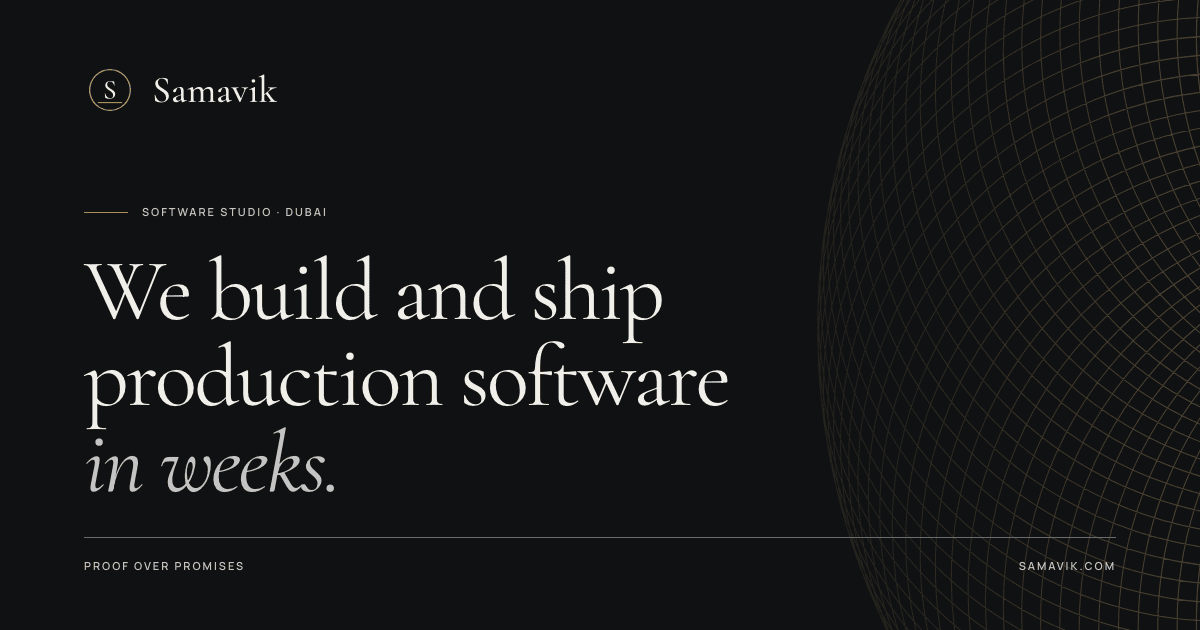
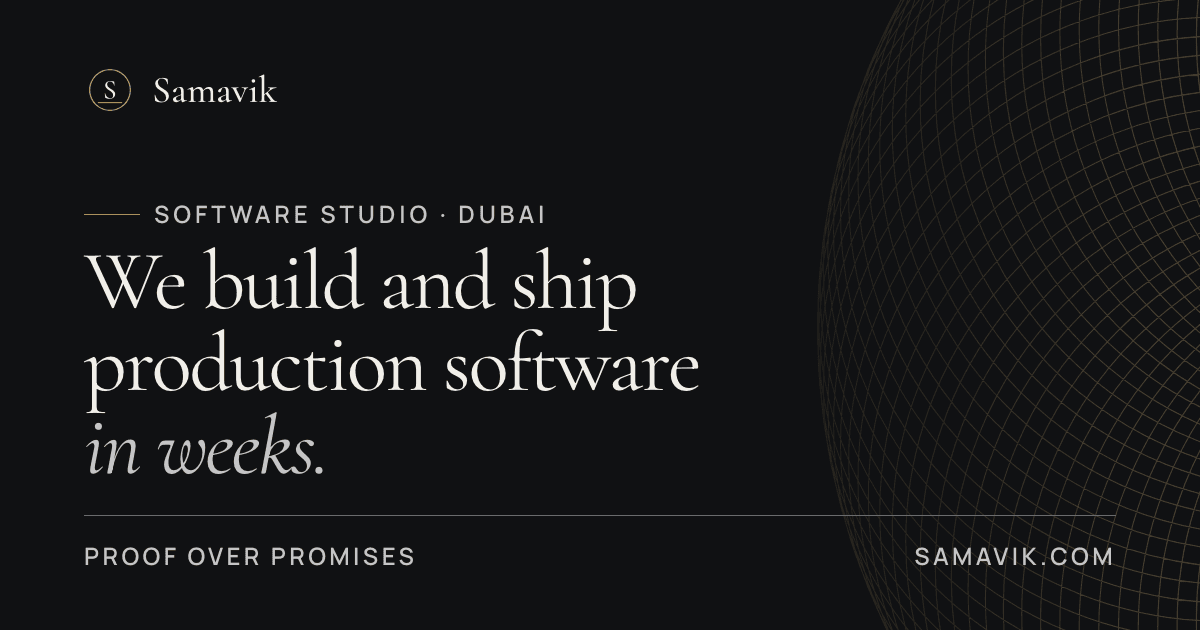
fix(review): rendered-pixel contrast tooling, widows, targets, share image, no-JS form line, COPY_CHANGES complete, console check in three engines, copy-diff, tools README

diff --git a/wordpress-migration.html b/wordpress-migration.html
@@ -94,12 +94,12 @@
           <p class="lede sub">It's not just hosting. It's the plugins, the security patches, the updates that break things, and the developer time to keep it all running.</p>
         </div>
         <ul class="ruled cols-3">
-          <li><p class="num">01</p><h3>Security vulnerability</h3><p>WordPress is the #1 target for hackers. Every plugin is an attack vector. One outdated plugin can compromise your entire site.</p></li>
-          <li><p class="num">02</p><h3>Slow page loads</h3><p>Every request hits a PHP server and MySQL database. Add a page builder and plugins and you're looking at 3&ndash;5 second load times. Google notices.</p></li>
-          <li><p class="num">03</p><h3>Endless maintenance</h3><p>WordPress core updates. Plugin updates. Theme updates. PHP upgrades. Database optimisation. SSL renewals. Backup management. It never stops.</p></li>
-          <li><p class="num">04</p><h3>Compounding costs</h3><p>Hosting &pound;11&ndash;44/mo. Plugin licences &pound;15&ndash;50/mo. Theme &pound;5&ndash;15/mo. Developer maintenance &pound;50&ndash;200/mo. That's &pound;1,000&ndash;3,700+ per year.</p></li>
-          <li><p class="num">05</p><h3>Plugin conflicts</h3><p>Update one plugin, break another. The #1 cause of WordPress downtime isn't hacking &mdash; it's a routine update gone wrong.</p></li>
-          <li><p class="num">06</p><h3>SEO penalty</h3><p>Google's Core Web Vitals directly affect rankings. Slow TTFB, poor LCP, layout shifts &mdash; WordPress sites increasingly fail these metrics.</p></li>
+          <li><p class="num">01</p><h3>Security&nbsp;vulnerability</h3><p>WordPress is the #1 target for hackers. Every plugin is an attack vector. One outdated plugin can compromise your entire site.</p></li>
+          <li><p class="num">02</p><h3>Slow page&nbsp;loads</h3><p>Every request hits a PHP server and MySQL database. Add a page builder and plugins and you're looking at 3&ndash;5 second load times. Google notices.</p></li>
+          <li><p class="num">03</p><h3>Endless&nbsp;maintenance</h3><p>WordPress core updates. Plugin updates. Theme updates. PHP upgrades. Database optimisation. SSL renewals. Backup management. It never stops.</p></li>
+          <li><p class="num">04</p><h3>Compounding&nbsp;costs</h3><p>Hosting &pound;11&ndash;44/mo. Plugin licences &pound;15&ndash;50/mo. Theme &pound;5&ndash;15/mo. Developer maintenance &pound;50&ndash;200/mo. That's &pound;1,000&ndash;3,700+ per year.</p></li>
+          <li><p class="num">05</p><h3>Plugin&nbsp;conflicts</h3><p>Update one plugin, break another. The #1 cause of WordPress downtime isn't hacking &mdash; it's a routine update gone wrong.</p></li>
+          <li><p class="num">06</p><h3>SEO&nbsp;penalty</h3><p>Google's Core Web Vitals directly affect rankings. Slow TTFB, poor LCP, layout shifts &mdash; WordPress sites increasingly fail these metrics.</p></li>
         </ul>
       </div>
     </section>
@@ -139,11 +139,11 @@
           <p class="lede sub">Your WordPress site stays live throughout. Nothing changes until you've approved the new site.</p>
         </div>
         <ol class="steps">
-          <li><span class="n" aria-hidden="true">01</span><div><h3>Free Audit</h3><p class="label dur">1&ndash;2 days</p></div><p>We review your current WordPress site &mdash; costs, performance, content, DNS, email. You get a specific report with numbers.</p></li>
-          <li><span class="n" aria-hidden="true">02</span><div><h3>Build &amp; Preview</h3><p class="label dur">1&ndash;2 weeks</p></div><p>The new site is built and deployed to a private preview URL. You see exactly what you're getting before committing.</p></li>
-          <li><span class="n" aria-hidden="true">03</span><div><h3>Review &amp; Approve</h3><p class="label dur">3&ndash;5 days</p></div><p>You and your team test the preview. Feedback, revisions, content checks. Nothing goes live until you say so.</p></li>
-          <li><span class="n" aria-hidden="true">04</span><div><h3>Switch &amp; Redirect</h3><p class="label dur">1 day</p></div><p>DNS pointed to the new site. 301 redirects preserve SEO. Sitemap submitted. WordPress kept as backup.</p></li>
-          <li><span class="n" aria-hidden="true">05</span><div><h3>Monitor &amp; Train</h3><p class="label dur">2&ndash;4 weeks</p></div><p>2&ndash;4 weeks monitoring. Training for your content editor. Cancel WordPress when you're confident.</p></li>
+          <li><span class="n" aria-hidden="true">01</span><div><h3>Free&nbsp;Audit</h3><p class="label dur">1&ndash;2 days</p></div><p>We review your current WordPress site &mdash; costs, performance, content, DNS, email. You get a specific report with numbers.</p></li>
+          <li><span class="n" aria-hidden="true">02</span><div><h3>Build &amp;&nbsp;Preview</h3><p class="label dur">1&ndash;2 weeks</p></div><p>The new site is built and deployed to a private preview URL. You see exactly what you're getting before committing.</p></li>
+          <li><span class="n" aria-hidden="true">03</span><div><h3>Review &amp;&nbsp;Approve</h3><p class="label dur">3&ndash;5 days</p></div><p>You and your team test the preview. Feedback, revisions, content checks. Nothing goes live until you say so.</p></li>
+          <li><span class="n" aria-hidden="true">04</span><div><h3>Switch &amp;&nbsp;Redirect</h3><p class="label dur">1 day</p></div><p>DNS pointed to the new site. 301 redirects preserve SEO. Sitemap submitted. WordPress kept as backup.</p></li>
+          <li><span class="n" aria-hidden="true">05</span><div><h3>Monitor &amp;&nbsp;Train</h3><p class="label dur">2&ndash;4 weeks</p></div><p>2&ndash;4 weeks monitoring. Training for your content editor. Cancel WordPress when you're confident.</p></li>
         </ol>
       </div>
     </section>
@@ -158,7 +158,7 @@
         <article class="plate" aria-labelledby="cs-t">
           <div class="in">
             <div class="plate-top"><p class="label">Case study</p><p class="label">Completed Migration</p></div>
-            <h3 id="cs-t">International Business &mdash; 4 Domains</h3>
+            <h3 id="cs-t">International Business &mdash;&nbsp;4&nbsp;Domains</h3>
             <p class="desc">WordPress Multisite on managed hosting &rarr; Next.js on Vercel + Cloudflare DNS + Builder.io CMS. Phased migration, one domain at a time, with full rollback capability at every stage.</p>
             <div class="pairs">
               <div><p class="b"><span class="sr">Before: </span>&pound;300/mo</p><span class="ar" aria-hidden="true">&darr;</span><p class="a"><span class="sr">After: </span>&pound;20/mo</p><span class="label">Monthly Hosting</span></div>
@@ -180,12 +180,12 @@
           <p class="lede sub">Modern, proven technologies used by Netflix, Nike, TikTok, and thousands of others.</p>
         </div>
         <ul class="ruled cols-3">
-          <li><h3>Next.js + React</h3><p>The most popular React framework. Server-side rendering, automatic code splitting, image optimisation. Built by Vercel.</p></li>
-          <li><h3>Vercel (Hosting)</h3><p>Global edge network, 100+ locations. Push to GitHub, live in 60 seconds. Instant rollbacks. &pound;20/month.</p></li>
-          <li><h3>Builder.io (CMS)</h3><p>Visual drag-and-drop editor. Your team edits content like WordPress &mdash; no code required. Free plan included.</p></li>
-          <li><h3>Cloudflare (DNS)</h3><p>Free DNS, DDoS protection, near-instant propagation. Full control over all records. Replaces paid DNS add-ons.</p></li>
+          <li><h3>Next.js +&nbsp;React</h3><p>The most popular React framework. Server-side rendering, automatic code splitting, image optimisation. Built by Vercel.</p></li>
+          <li><h3>Vercel&nbsp;(Hosting)</h3><p>Global edge network, 100+ locations. Push to GitHub, live in 60 seconds. Instant rollbacks. &pound;20/month.</p></li>
+          <li><h3>Builder.io&nbsp;(CMS)</h3><p>Visual drag-and-drop editor. Your team edits content like WordPress &mdash; no code required. Free plan included.</p></li>
+          <li><h3>Cloudflare&nbsp;(DNS)</h3><p>Free DNS, DDoS protection, near-instant propagation. Full control over all records. Replaces paid DNS add-ons.</p></li>
           <li><h3>TypeScript</h3><p>Type-safe JavaScript. Catches bugs before they reach production. Industry standard for modern web apps.</p></li>
-          <li><h3>Tailwind CSS</h3><p>Utility-first CSS framework. Fast to build, easy to maintain, consistent design system across all pages.</p></li>
+          <li><h3>Tailwind&nbsp;CSS</h3><p>Utility-first CSS framework. Fast to build, easy to maintain, consistent design system across all pages.</p></li>
         </ul>
       </div>
     </section>
@@ -198,10 +198,10 @@
           <p class="lede sub">No vendor lock-in. No held-hostage code. Everything belongs to your business.</p>
         </div>
         <ul class="ruled">
-          <li><h3>Full source code access</h3><p>Complete codebase on your GitHub account. You own it. Any Next.js developer worldwide can pick it up and continue.</p></li>
-          <li><h3>Your accounts, your email</h3><p>Vercel, Cloudflare, Builder.io &mdash; all created with your business email. We're invited as a team member, not an owner.</p></li>
-          <li><h3>Clean offboarding</h3><p>If we stop working together, you remove our access with one click. Full documentation provided. No dependency.</p></li>
-          <li><h3>Platform portable</h3><p>Next.js is open source &mdash; move from Vercel to Netlify, AWS, or any server. Builder.io content exports via API.</p></li>
+          <li><h3>Full source code&nbsp;access</h3><p>Complete codebase on your GitHub account. You own it. Any Next.js developer worldwide can pick it up and continue.</p></li>
+          <li><h3>Your accounts, your&nbsp;email</h3><p>Vercel, Cloudflare, Builder.io &mdash; all created with your business email. We're invited as a team member, not an owner.</p></li>
+          <li><h3>Clean&nbsp;offboarding</h3><p>If we stop working together, you remove our access with one click. Full documentation provided. No dependency.</p></li>
+          <li><h3>Platform&nbsp;portable</h3><p>Next.js is open source &mdash; move from Vercel to Netlify, AWS, or any server. Builder.io content exports via API.</p></li>
         </ul>
       </div>
     </section>
@@ -213,14 +213,14 @@
           <h2 class="title" id="faq-t">Common&nbsp;<em>questions</em></h2>
         </div>
         <ul class="ruled">
-          <li><h3>Will my team still be able to edit the website?</h3><p>Yes. Builder.io provides a visual drag-and-drop editor that works much like WordPress. Your team can edit text, swap images, create posts, and publish &mdash; no code needed. Training included.</p></li>
-          <li><h3>Will I lose my Google rankings?</h3><p>No. All URLs are mapped and 301 redirected. Metadata preserved. Rankings may fluctuate for 2&ndash;4 weeks, then stabilise &mdash; typically higher due to improved Core Web Vitals.</p></li>
-          <li><h3>What if something goes wrong?</h3><p>Your WordPress site stays live during the entire migration. If anything goes wrong, we revert DNS back to WordPress in minutes. Completely reversible.</p></li>
-          <li><h3>How long does it take?</h3><p>Typically 3&ndash;5 weeks including monitoring. The actual switch happens in a day &mdash; the rest is building, testing, and making sure everything is perfect.</p></li>
-          <li><h3>What about my email?</h3><p>Email (MX records) is carefully preserved during DNS migration. We audit all records before touching anything. Email continues without interruption.</p></li>
-          <li><h3>What does the migration cost?</h3><p>Quoted per-project after the free audit. Ongoing infrastructure is just &pound;20/month (Vercel Pro). No plugin fees, no theme fees, no maintenance fees.</p></li>
-          <li><h3>Can I go back to WordPress?</h3><p>Yes. WordPress is kept running for 2&ndash;4 weeks as a safety net. Reverting is as simple as pointing DNS back. Content is always exportable.</p></li>
-          <li><h3>I run an agency &mdash; can you white-label?</h3><p>Yes. We work with agencies as a white-label delivery partner. You keep the client relationship and charge your rate. We handle the build.</p></li>
+          <li><h3>Will my team still be able to edit the&nbsp;website?</h3><p>Yes. Builder.io provides a visual drag-and-drop editor that works much like WordPress. Your team can edit text, swap images, create posts, and publish &mdash; no code needed. Training included.</p></li>
+          <li><h3>Will I lose my Google&nbsp;rankings?</h3><p>No. All URLs are mapped and 301 redirected. Metadata preserved. Rankings may fluctuate for 2&ndash;4 weeks, then stabilise &mdash; typically higher due to improved Core Web Vitals.</p></li>
+          <li><h3>What if something goes&nbsp;wrong?</h3><p>Your WordPress site stays live during the entire migration. If anything goes wrong, we revert DNS back to WordPress in minutes. Completely reversible.</p></li>
+          <li><h3>How long does it&nbsp;take?</h3><p>Typically 3&ndash;5 weeks including monitoring. The actual switch happens in a day &mdash; the rest is building, testing, and making sure everything is perfect.</p></li>
+          <li><h3>What about my&nbsp;email?</h3><p>Email (MX records) is carefully preserved during DNS migration. We audit all records before touching anything. Email continues without interruption.</p></li>
+          <li><h3>What does the migration&nbsp;cost?</h3><p>Quoted per-project after the free audit. Ongoing infrastructure is just &pound;20/month (Vercel Pro). No plugin fees, no theme fees, no maintenance fees.</p></li>
+          <li><h3>Can I go back to&nbsp;WordPress?</h3><p>Yes. WordPress is kept running for 2&ndash;4 weeks as a safety net. Reverting is as simple as pointing DNS back. Content is always exportable.</p></li>
+          <li><h3>I run an agency &mdash; can you&nbsp;white-label?</h3><p>Yes. We work with agencies as a white-label delivery partner. You keep the client relationship and charge your rate. We handle the build.</p></li>
         </ul>
       </div>
     </section>

diff --git a/index.html b/index.html
@@ -156,8 +156,8 @@
               </figure>
               <div class="txt">
                 <div class="plate-top"><p class="label">No. 01</p><p class="label">Client · In development</p></div>
-                <h3 id="p1">Learn To BASE Jump</h3>
-                <p class="tag it">Website + iOS &amp; Android app for a professional BASE jumping school</p>
+                <h3 id="p1">Learn To BASE&nbsp;Jump</h3>
+                <p class="tag it">Website + iOS &amp; Android app for a professional BASE jumping&nbsp;school</p>
                 <p class="desc">Full digital platform for a Switzerland-based BASE school: the public website, plus a cross-platform mobile app covering course booking, packing tutorials and student progression tracking. Safety-critical domain, real client, real users on the way.</p>
                 <dl class="specs">
                   <div><dt>Platforms</dt><dd>Web<i>·</i>iOS<i>·</i>Android</dd></div>
@@ -181,7 +181,7 @@
               <div class="txt">
                 <div class="plate-top"><p class="label">No. 02</p><p class="label">Paying client</p></div>
                 <h3 id="p2">Cutaway</h3>
-                <p class="tag it">Video platform for skydiving dropzones — web, iOS &amp; Windows</p>
+                <p class="tag it">Video platform for skydiving dropzones — web, iOS &amp;&nbsp;Windows</p>
                 <p class="desc">Complete commercial SaaS deployed at a working dropzone: iOS manifesting app, Windows desktop editing suite with automated FFmpeg pipelines, and automatic customer delivery. Licensing, billing and support: a full product business, not a demo.</p>
                 <dl class="specs">
                   <div><dt>Platforms</dt><dd>Web<i>·</i>iOS<i>·</i>Windows</dd></div>
@@ -201,7 +201,7 @@
               <div class="txt">
                 <div class="plate-top"><p class="label">No. 03</p><p class="label">Live on App Store</p></div>
                 <h3 id="p3">GoSayHi</h3>
-                <p class="tag it">AI voice coach — iOS</p>
+                <p class="tag it">AI voice coach —&nbsp;iOS</p>
                 <p class="desc">Real-time AI voice conversations with usage-based billing. A full production LLM + voice pipeline: latency, cost control, safety and payments, solved and shipped.</p>
                 <dl class="specs">
                   <div><dt>Platforms</dt><dd>iOS</dd></div>
@@ -224,8 +224,8 @@
               </figure>
               <div class="txt">
                 <div class="plate-top"><p class="label">No. 04</p><p class="label">Live &amp; running daily</p></div>
-                <h3 id="p4">Coaching CRM Engine</h3>
-                <p class="tag it">The machine behind a real coaching business</p>
+                <h3 id="p4">Coaching CRM&nbsp;Engine</h3>
+                <p class="tag it">The machine behind a real coaching&nbsp;business</p>
                 <p class="desc">Custom CRM with lead scoring, staged AI-personalised outreach, Instagram API automation, Stripe checkout and a client media portal, running a real business every day.</p>
                 <dl class="specs">
                   <div><dt>Platforms</dt><dd>Web</dd></div>
@@ -242,7 +242,7 @@
             <div class="in">
               <div class="plate-top"><p class="label">No. 05</p><p class="label">Live in production</p></div>
               <h3 id="p5">DogSpot</h3>
-              <p class="tag it">Social competition app</p>
+              <p class="tag it">Social competition&nbsp;app</p>
               <p class="desc">Mobile social game with real users: accounts, feeds, scoring, moderation and releases. Concept to production, built and operated end-to-end.</p>
               <dl class="specs">
                   <div><dt>Platforms</dt><dd>iOS<i>·</i>Android</dd></div>
@@ -255,7 +255,7 @@
             <div class="in">
               <div class="plate-top"><p class="label">No. 06</p><p class="label">R&amp;D · Patent filed</p></div>
               <h3 id="p6">PPGDrone</h3>
-              <p class="tag it">World-first dual-mode aircraft</p>
+              <p class="tag it">World-first dual-mode&nbsp;aircraft</p>
               <p class="desc">Drone-assisted paramotor for wingsuit BASE logistics: hardware, flight systems and software. The lab project that shows range beyond the browser.</p>
               <dl class="specs">
                   <div><dt>Platforms</dt><dd>Hardware</dd></div>
@@ -268,8 +268,8 @@
           <article class="plate plate-small" aria-labelledby="p7">
             <div class="in">
               <div class="plate-top"><p class="label">No. 07</p><p class="label">[standing, to be confirmed by the owner]</p></div>
-              <h3 id="p7">Samavik Aviation</h3>
-              <p class="tag it">[one line, to be written with the owner]</p>
+              <h3 id="p7">Samavik&nbsp;Aviation</h3>
+              <p class="tag it">[one line, to be written with the&nbsp;owner]</p>
               <p class="desc">[facts only, from the product's own public pages]</p>
               <dl class="specs"><div><dt>Platforms</dt><dd>Web<i>·</i>iOS<i>·</i>Android</dd></div></dl>
             </div>
@@ -320,7 +320,7 @@
               <p class="label">Founder</p>
               <p class="name display"><span>Ed</span><span>Cracknell</span></p>
               <div class="rule" aria-hidden="true"></div>
-              <p class="stand it">Full-stack product engineer; professional skydiving and wind-tunnel coach.</p>
+              <p class="stand it">Full-stack product engineer; professional skydiving and wind-tunnel&nbsp;coach.</p>
               <p class="label ent">Samavik L.L.C-FZ · Meydan Free Zone · Dubai</p>
             </div>
           </div>

diff --git a/tools/share.html b/tools/share.html
@@ -7,10 +7,12 @@
   .brand{display:flex;align-items:center;gap:16px}
   .brand .mark{width:52px;height:52px}
   .brand b{font:500 38px/1 var(--ot-font-display)}
-  .ey{position:absolute;left:0;top:140px}
-  h1{position:absolute;left:0;top:184px;margin:0;font-size:88px;line-height:.98;letter-spacing:-.03em}
+  .ey{position:absolute;left:0;top:132px;font-size:24px;letter-spacing:.16em}
+  .ey::before{width:56px}
+  h1{position:absolute;left:0;top:176px;margin:0;font-size:84px;line-height:.98;letter-spacing:-.03em}
   h1 span{display:block;white-space:nowrap}
-  .foot{position:absolute;left:0;bottom:0;right:0;display:flex;justify-content:space-between;border-top:1px solid #696b71;padding-top:20px}
+  .foot{position:absolute;left:0;bottom:0;right:0;display:flex;justify-content:space-between;border-top:1px solid #696b71;padding-top:22px}
+  .foot .label{font-size:24px;letter-spacing:.14em;color:#c4c4c6}
 </style></head><body>
 <svg class="sr" width="0" height="0" aria-hidden="true" focusable="false"><symbol id="mark" viewBox="0 0 64 64"><circle class="mk-ring" cx="32" cy="32" r="25" fill="none" stroke-width="1.6"/><path class="mk-s" transform="translate(23.25 42.5) scale(0.03400 -0.034)" d="M154 513Q154 475 173 446.5Q192 418 219 397.5Q246 377 294 348Q344 317 373.5 294.5Q403 272 424 239Q445 206 445 161Q445 112 419.5 72.5Q394 33 346.5 10.5Q299 -12 236 -12Q196 -12 157 -2.5Q118 7 89 25Q84 28 82 32Q80 36 80 44L70 187Q69 191 74.5 192Q80 193 81 189Q105 113 148 60Q191 7 260 7Q307 7 339 32.5Q371 58 371 116Q371 160 351 193Q331 226 302 248.5Q273 271 225 300Q178 330 150.5 351.5Q123 373 104 404.5Q85 436 85 478Q85 529 112.5 565Q140 601 184.5 618.5Q229 636 278 636Q344 636 399 613Q414 606 414 595L419 470Q419 466 413.5 465.5Q408 465 407 469Q396 523 360.5 571Q325 619 259 619Q209 619 181.5 589Q154 559 154 513Z"/><path class="mk-rule" d="M17 47.5h30" stroke-width="1.3"/></symbol></svg>
 <div class="art art-field"></div>

diff --git a/assets/site.css b/assets/site.css
@@ -144,7 +144,7 @@ a { color: inherit; }
 .display, h1, h2, h3, h4.serif { font-family: var(--ot-font-display); font-weight: 400; font-variant-numeric: lining-nums; letter-spacing: -0.018em; }
 em, .it { font-family: var(--ot-font-italic); font-style: italic; font-weight: 400; font-synthesis: none; }
 .lede { font-family: var(--ot-font-italic); font-style: italic; font-weight: 400; font-synthesis: none; font-size: clamp(1.25rem, 1.05rem + 0.8vw, 1.75rem); line-height: 1.38; color: var(--ot-ink-2); letter-spacing: 0; max-width: 40ch; }
-.title, .legal h2, .head h1, .legal-head h1, .cta h2 { text-wrap: balance; }
+.title, h1, h2, h3, .tag, .stand, .lede, .inscription p { text-wrap: balance; }
 .lede, .prose p, .plate .desc, .promise p { text-wrap: pretty; }
 .title { font-size: clamp(2.35rem, 1.4rem + 3.4vw, 4.4rem); line-height: 1.02; letter-spacing: -0.024em; max-width: 18ch; }
 .title em { color: var(--ot-ink-2); }
@@ -417,7 +417,8 @@ form[aria-busy="true"] .key { opacity: 0.7; }
 .colophon .mt { margin-top: 12px; }
 .colophon .house, .colophon .house:hover { text-decoration: none; }
 .colophon p.label { font-size: 0.6875rem; line-height: 1.5; letter-spacing: var(--ot-track-label); font-weight: 600; color: var(--ot-ink-2); max-width: none; }
-.colophon p.fine a, .legal p a, .legal li a, .form-note a { padding-block: 12px; margin-block: -12px; }
+.colophon p.fine a, .legal p a, .legal li a, .form-note a { padding: 14px 3px; margin: -14px -3px; }
+.cta .mail .ul, .ul { display: inline-flex; align-items: center; min-height: 44px; }
 .colophon p.fine a { display: inline-block; }
 .colophon p { font-size: 0.875rem; color: var(--ot-ink-2); max-width: 44ch; line-height: 1.7; }
 .colophon .it { font-size: 1.2rem; line-height: 1.4; color: var(--ot-ink); }

diff --git a/COPY_CHANGES.md b/COPY_CHANGES.md
@@ -1,6 +1,6 @@
 # Copy changes: samavik.com redesign (branch `redesign/atelier`)
 
-Every sentence of the three pages that is not word for word as on today's site, old and new, so each can be accepted or refused. Tick the ones you refuse and they go back exactly as they were. No fact, number, price, claim or promise has been added to any page; the one sentence that came close is listed at the end under "Proposed additions, not shown" and is not on the page.
+Every word of the three pages (and the new 404 page) that is not word for word as on today's site, old and new, so each can be accepted or refused. `tools/copy-diff.mjs` compares the redesign's rendered words with `origin/main` and regenerates the raw list (it is advisory: it reports clauses, so a change of punctuation alone shows only in the tables below); this file was reconciled against its output on the final commit. Tick the ones you refuse and they go back exactly as they were. No fact, number, price, claim or promise has been added to any page; the one sentence that came close is listed at the end under "Proposed additions, not shown" and is not on the page.
 
 Not changes of wording, so not listed one by one: tracked capitals for labels (the text is as written), curly quotes and apostrophes instead of straight ones, the dash that joined two clauses becoming a comma or colon (each listed below where it is in a sentence), and the section numbers "No. 01" to "No. 06" and "01" to "05".
 
@@ -37,7 +37,10 @@ Not changes of wording, so not listed one by one: tracked capitals for labels (t
 | 27 | Form, the function refuses | Something went wrong — email edward@samavik.com instead. | Four notices, each keeping what was typed: "The form needs a name, an email address and a message."; "The email address was not accepted."; "One of the fields is longer than we can take (name 200, email 320, message 5,000 characters)."; "The form could not be submitted from here." and, for a failure at our end, "Something went wrong on our side, and your message was not sent. It is still here: try again in a moment. You can write to us directly at edward@samavik.com." |
 | 28 | Form, the network fails (new) | (the same single sentence as above) | We could not reach the server, so nothing was sent. Your message is still here: check your connection and try again. You can write to us directly at edward@samavik.com. |
 | 29 | Footer | © 2026 Samavik L.L.C-FZ · Meydan Free Zone, Dubai, UAE (kept) | Added the colophon: "Founder-led. Proof over promises." and "Samavik L.L.C-FZ, a licensed company in the Meydan Free Zone, Dubai, UAE. Set in Cormorant Garamond and Manrope, both under the SIL Open Font Licence. This site sets no cookies and loads nothing from anywhere else." The last sentence is true and is checked in REPORT.md. |
-| 30 | Menu | the bar's "Start a project" button | unchanged; on a phone the menu also reads "Evening or day / Switch mode" |
+| 30 | Menu and small interface words (new) | none | "Menu" and "Close" (the phone menu's button), "Evening or day" with "Switch to day" / "Switch to evening" (inside the menu), "Skip to content" (kept), "Back to the top ↑" (footer), the mode switch's spoken names "Switch to day mode" and "Switch to evening mode". |
+| 31 | Contact, labels | Name, Email, What are you building? | the same words as tracked capitals; the page heading above the form is "Write to us" with the label "Enquiry" (no. 22). |
+| 32 | Contact, without JavaScript (new) | the form was shown and sent a GET to the home page with the message in the address | The form needs JavaScript. Please write to edward@samavik.com. |
+| 33 | Work, the numbers | none | "No. 01" to "No. 06" on the plates; the compact plates carry the standing (e.g. "Live in production") in tracked capitals beside the number, as the wide plates do, and the product's descriptor in the italic under the name. The words are the ones you had. |
 
 Titles, descriptions, canonical and the structured data are unchanged except: the Open Graph and Twitter cards now carry the share image (`assets/share.png`), the card is "summary_large_image", and the structured data gained a `logo` address (the icon).
 
@@ -49,7 +52,16 @@ Titles, descriptions, canonical and the structured data are unchanged except: th
 | 2 | (a new bullet under "What we collect") | **Evening or day:** if you use the switch in the top bar, your choice is kept in your browser’s local storage on your own device, so that the site opens the way you left it. It is never sent to us, and it is not a cookie. Clear your browser’s site data and it is forgotten. |
 | 3 | (a new section) | **What this site loads.** Everything on this site comes from samavik.com itself: its pages, its pictures, and the two typefaces (Cormorant Garamond and Manrope), which we host ourselves. Nothing is requested from Google Fonts or from any other third party, and the site sets no cookies. The only request your browser makes beyond fetching the pages is the one the contact form sends to us when you press Send. |
 
-Everything else on the page is word for word as before. (Today's page said nothing about fonts, because it loaded Google Fonts; that is gone, and items 2 and 3 say what the site now does.)
+**Not word for word:** the old page's other sentences are unchanged, but the page around them is new, and these words are new on it:
+
+| # | New | Where |
+|---|---|---|
+| 4 | The top bar and menu: "Services", "Work", "Process", "Founder", "Start a project", "Menu", "Close", "Evening or day", "Switch to day", "Skip to content" | every page |
+| 5 | "Privacy" (the small heading above the title), and the title set as "Privacy Policy" (the same two words as before) | head |
+| 6 | The colophon: "Founder-led. Proof over promises.", "Colophon", "Samavik L.L.C-FZ, a licensed company in the Meydan Free Zone, Dubai, UAE. Set in Cormorant Garamond and Manrope, both under the SIL Open Font Licence. This site sets no cookies and loads nothing from anywhere else.", "Pages" with the links Services, Work, Contact, Privacy, "© 2026 Samavik L.L.C-FZ · Meydan Free Zone, Dubai, UAE", "Back to the top ↑" | foot |
+| 7 | The canonical address `https://samavik.com/privacy` (the old page had none) and the `noindex` kept | head of the page's source |
+
+(Today's page said nothing about fonts, because it loaded Google Fonts; that is gone, and items 2 and 3 say what the site now does. The earlier sentence in this file that everything else was word for word was wrong; this table replaces it.)
 
 ## WordPress migration (`wordpress-migration.html`)
 
@@ -61,9 +73,21 @@ Every price, percentage, duration, case-study figure and claim is kept exactly, 
 | 2 | Head, the headline | Migrate WordPress to / Next.js — faster, cheaper, / zero maintenance (set on three lines) | the same words in running lines, "Next.js" in the italic |
 | 3 | Case study | Completed Migration (a badge) | Case study · Completed Migration |
 | 4 | Footer | Projects (link to `/#projects`, which is not on the page) | Work (link to `/#work`) |
-| 5 | The six emoji icons beside the problems, the stack and the ownership cards | present | removed (they are pictures, not words; the numbers 01 to 06 stand in their place) |
+| 5 | The top bar and menu: "The Problem", "Pricing", "Results", "FAQ", "Free Audit" (the same words as before), plus "Menu", "Close", "Evening or day", "Switch to day", "Skip to content" | every page |
+| 6 | New small words: the label "Free audit" above "Start with a free audit"; the cost table's name for assistive technology, "Monthly cost, WordPress against Next.js" (not shown on screen); "Before:" and "After:" spoken before each case-study figure (not shown on screen); on a phone the table reads as stacked rows with the column names "WordPress" and "Next.js (New)" repeated beside each figure | page |
+| 7 | The colophon, as on the privacy page (no. 6 there), and the footer line "© 2026 Samavik L.L.C-FZ. Meydan Free Zone, Dubai, UAE." now reads "© 2026 Samavik L.L.C-FZ · Meydan Free Zone, Dubai, UAE" | foot |
+| 8 | The share-card tags: `og:image`, `og:site_name`, `twitter:card` "summary_large_image" and `twitter:image` added (the title and description words are unchanged) | head of the page's source |
+| 9 | The six emoji icons beside the problems, the stack and the ownership cards | present | removed (they are pictures, not words; the numbers 01 to 06 stand in their place) |
 
 Claims on this page that I kept as they are but that are the owner's to stand behind: "used by Netflix, Nike, TikTok, and thousands of others"; "WordPress is the #1 target for hackers"; "The #1 cause of WordPress downtime isn't hacking"; the case study's figures (£300/mo to £20/mo, Lighthouse ~55 to 95+, TTFB ~1,200ms to <100ms, 12+ plugins to 0); "90%", "<1s", "95+", "50-80%" in the hero and cards. I have not checked any of them.
+
+## 404 page (`404.html`, new)
+
+Title "Not here — Samavik"; "404"; "Not here."; "The page you asked for is not here, or it has moved."; the key "Back to samavik.com". Not on today's site (which shows Vercel's plain default).
+
+## Files with words in them (new)
+
+`robots.txt` (allow all; the sitemap's address) and `sitemap.xml` (the three clean addresses: `/`, `/wordpress-migration`, `/privacy`). No page words.
 
 ## Proposed additions, not shown
 

diff --git a/tools/README.md b/tools/README.md
@@ -1,0 +1,8 @@
+# tools/
+
+Local scripts only (`.vercelignore` keeps this folder off the site; nothing here runs on Vercel). `npm install` in this folder, then run from the repository root.
+
+- Assets: `gen-art.mjs` (the drawings), `gen-mark.mjs` (favicon.svg, favicon.ico, touch icon), `capture.mjs` and `fetch-gosayhi.mjs` then `optimise.mjs` (pictures of the owner's live public products), `share.mjs` (the 1200 x 630 share image from `share.html`). **After any of them run `node tools/hash-assets.mjs`**, which gives fonts, pictures and drawings a content hash in their names and rewrites the references (the one-year `immutable` cache depends on it).
+- Policy: `csp.mjs` writes `vercel.json` (clean addresses, caching, Content-Security-Policy with the hash of the one inline script, the security headers); `verify.mjs` fails if the policy, the references or the hashes disagree (run before every push).
+- Local server: `serve.mjs` on :4210 (the same headers as `vercel.json`, clean addresses, the 404 page). The contact function does not run locally.
+- Checks: `console-check.mjs` (no console message of any kind, three engines), `audit.mjs` (axe, overflow, requests), `contrast-pixels.mjs` (every text box on rendered pixels), `layout-checks.mjs` (widows, targets, anchors, plate rows), `font-shift.mjs` (layout shift as the faces arrive), `states.mjs` (the contact form's states with the request intercepted), `checks.mjs` (no-JS, no flash, keyboard walk, print), `weights.mjs` (requests and transfer), `copy-diff.mjs` (words against `origin/main`), `contrast.mjs` (token pairs).
